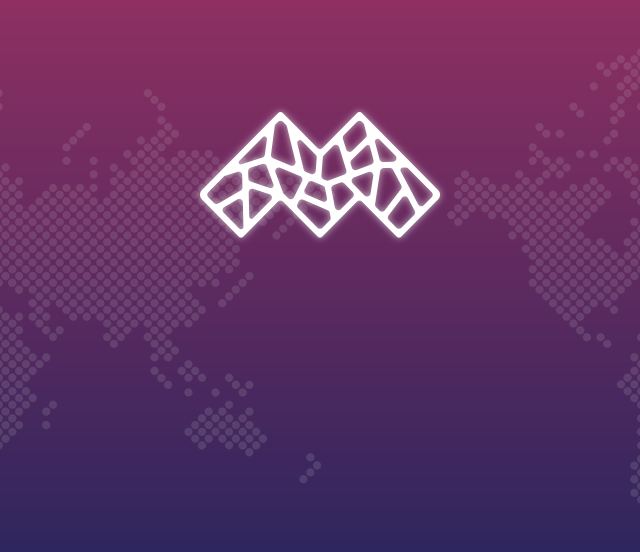
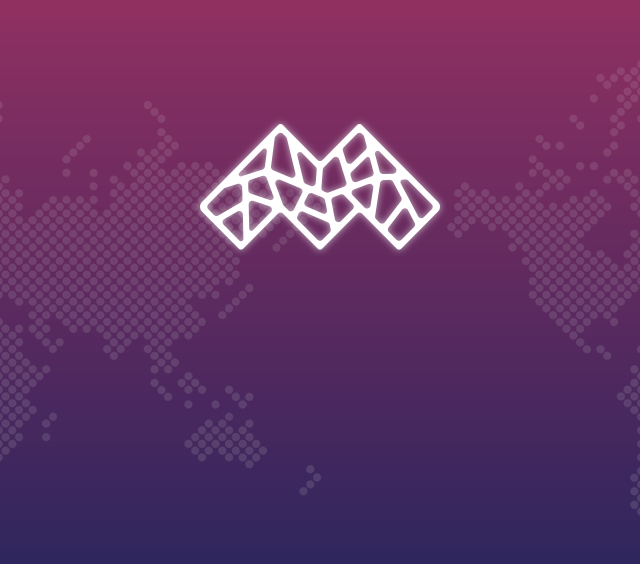
Adjust assets for a taller window

diff --git a/src/views/common/Welcome/WelcomeView.tsx b/src/views/common/Welcome/WelcomeView.tsx
@@ -13,9 +13,8 @@ import { BrandButton } from "../../../ui-kit/components/Button/BrandButton"
 import welcomeBg from "../../../ui-kit/assets/welcome-bg.png"
 
 const Container = styled.div`
+    background: url(${welcomeBg}) no-repeat, #8e3061;
     height: 100%;
-    background-image: url(${welcomeBg});
-    background-repeat: no-repeat;
     display: flex;
     flex-direction: column;
     justify-content: flex-start;

diff --git a/src/views/common/AcceptTerms/AcceptTermsView.tsx b/src/views/common/AcceptTerms/AcceptTermsView.tsx
@@ -21,9 +21,8 @@ import { analytics } from "../../../analytics/analytics-ui"
 import termsBg from "./terms-bg.png"
 
 const Container = styled.div`
+    background: url(${termsBg}) no-repeat, #fff;
     height: 100%;
-    background-image: url(${termsBg});
-    background-repeat: no-repeat;
     display: flex;
     flex-direction: column;
     justify-content: flex-start;

diff --git a/src/views/common/Loading/loading-view.tsx b/src/views/common/Loading/loading-view.tsx
@@ -11,7 +11,7 @@ import welcomeBg from "../../../ui-kit/assets/welcome-bg.png"
 import { Spinner } from "../../../ui-kit/components/Spinner/spinner"
 
 const Container = styled.div`
-    background: url(${welcomeBg}) no-repeat, #2e265d;
+    background: url(${welcomeBg}) no-repeat, #8e3061;
     width: 100%;
     height: 100%;
     display: flex;
